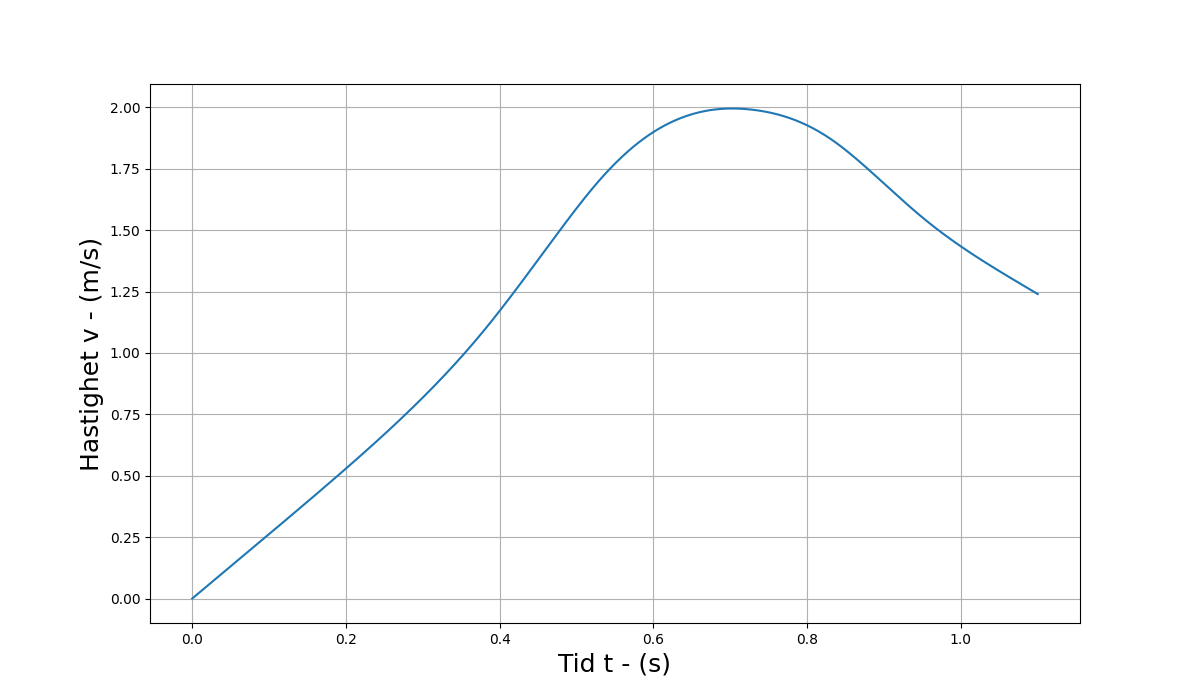
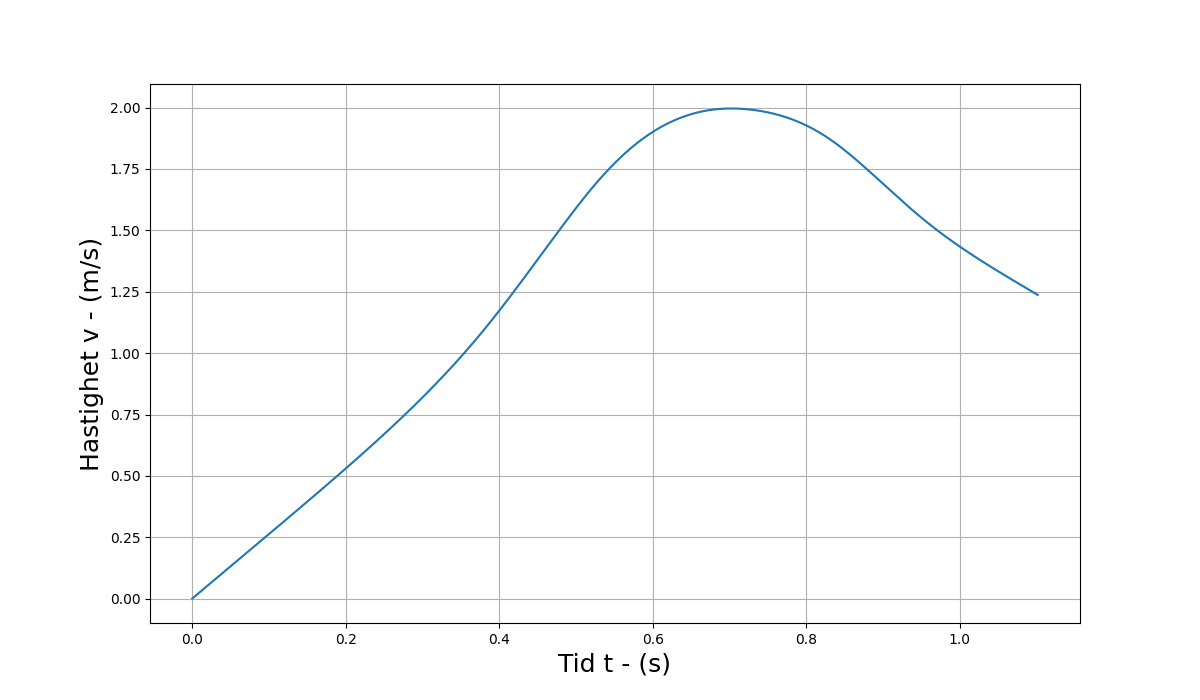
minor improvements

diff --git a/cubicspline.py b/cubicspline.py
@@ -26,11 +26,15 @@ y = cs(x)       # y(x) med 1401 verdier
 dy = cs(x,1)    # dy(x) med 1401 verdier 
 d2y = cs(x,2)   # d2y(x) med 1401 verdier
 
+# TIME:
+
+time_steps = 10000
+
 # Konstanter
 
 # Gravitasjonskonstanten:
-g = 9.81                       
-# Treghetsmoment:
+g = 9.81                      
+# Konstant knyttet til Treghetsmoment:
 c = 2/5
 # Kulas masse i kg:
 M = 0.031
@@ -39,19 +43,19 @@ x0 = x[0]
 # Y_0, første Y-posisjon til kula:
 y0 = cs(x0)
 # Startfart: > 0 (Euler):
-v0 = 0.000001
+v0 = 0.001
 # Starttid:                   
 t0 = 0    
 # Tidssteg:                      
-dt = 1.1/1000                   
+dt = 1.15/time_steps                   
 # Array med x-posisjoner: 
-x_t = [x0] * 1001
+x_t = [x0] * (time_steps+1)
 # Array med y-posisjoner:              
-y_t = [y0] * 1001
+y_t = [y0] * (time_steps+1)
 # Array med hastigheter:               
-v_t = [v0] * 1001
+v_t = [v0] * (time_steps+1)
 # Array med medgått tid:
-t_list = np.linspace(t0, dt*1000, 1001)
+t_list = np.linspace(t0, dt*time_steps, (time_steps+1))
 
 # Beregner akselerasjon med hensyn paa x
 def a(x):
@@ -60,11 +64,22 @@ def a(x):
 
 # Eulers metode for å beregne X, Y og v
 # av t, samt tidsstegene
-for n in range(1000):
+last_time_step = 0
+for n in range(time_steps):
     x_t[n + 1] = x_t[n] + v_t[n] * dt
     y_t[n + 1] = cs(x_t[n + 1])
-    current_a = a(x_t[n + 1])
+    current_a = a(x_t[n])
     v_t[n + 1] = v_t[n] + current_a * dt
+    if x_t[n+1] >= 1.4:
+        last_time_step = n+1
+        break
+if last_time_step==0:
+    raise("Error")
+
+x_t = x_t[:last_time_step+1]
+y_t = y_t[:last_time_step+1]
+v_t = v_t[:last_time_step+1]
+t_list = t_list[:last_time_step+1]
 
 # Beregner N og F med hensyn på X
 v_x = np.sqrt((2*g*(y0-y))/(1+c))
@@ -87,20 +102,18 @@ def printXofTCompare():
     for t_value in t:
         compare_y.append(abs(x[np.where(t == t_value)]-x_t2[find_nearest(t_list2, t_value)]))
     compare_y = [X[0] for X in compare_y]
-    print(compare_y)
-
 
     plt.figure(figsize=(12,7), facecolor="w", edgecolor="w")
     plt.plot(t, x, color="green", label="Eksperimentell posisjon")
     plt.plot(t_list, x_t, color="blue", label="Numerisk posisjon")
-    plt.plot(t, compare_y, color="red", label="Diff")
+    plt.plot(t, compare_y, color="red", label="Differanse")
     plt.fill_between(t, compare_y, 0, color="red")
     plt.legend()
     plt.xlabel("Tid t - (s)", fontsize = 18)
     plt.ylabel("Posisjon x - (m)", fontsize = 18)
     plt.grid()
     plt.savefig("figurer/XofTComp")
-    # plt.show()
+    plt.show()
 
 
 # Plotter X av t
@@ -122,6 +135,16 @@ def printVofT():
     plt.grid()
     plt.savefig("figurer/VofT")
     # plt.show()
+
+# Plotter V av x
+def printVofX():
+    plt.figure(figsize=(12,7), facecolor="w", edgecolor="w")
+    plt.plot(x_t, v_t)
+    plt.xlabel("Posisjon x - (m)", fontsize = 18)
+    plt.ylabel("Hastighet v - (m/s)", fontsize = 18)
+    plt.grid()
+    plt.savefig("figurer/VofX")
+    #plt.show()
 
 # Plotter F av X
 def printFofX():
@@ -165,11 +188,18 @@ def printFNofX():
 
 
 if __name__ == "__main__":
+    printXofTCompare()
+    printVofX()
     printXofT()
     printVofT()
     printFofX()
     printNofX()
     printYofX()
     printFNofX()
+    
     print("Sluttfart: ", v_t[-1])
-    printXofTCompare()
+    print("Maksfart: ", max(v_t))
+    print("Tid ved høyeste hastighet: ", t_list[v_t.index(max(v_t))])
+    print("Medgått tid: ", t_list[-1])
+    
+    
